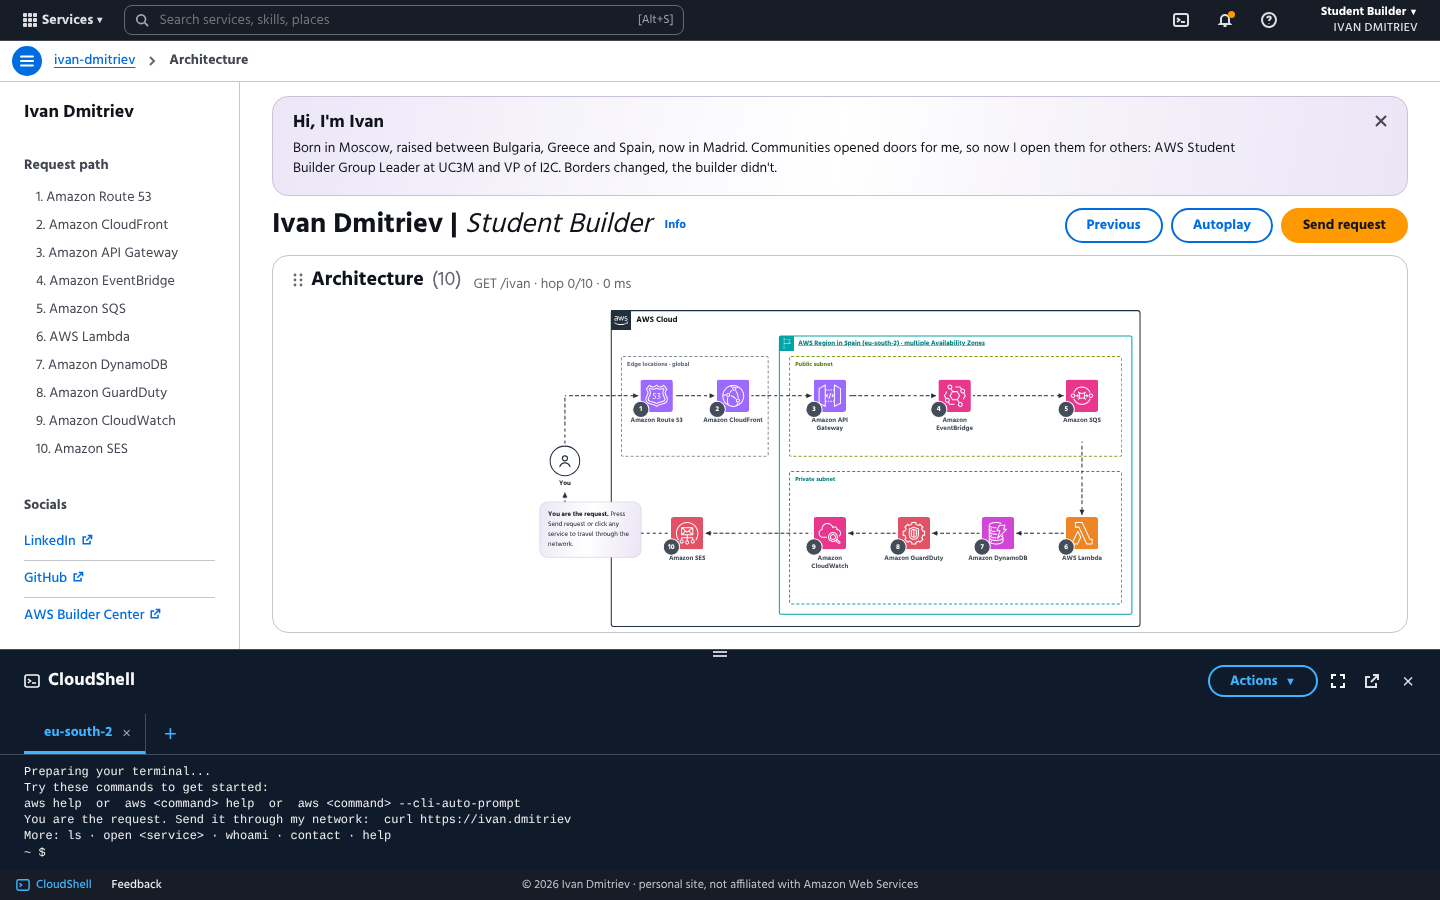
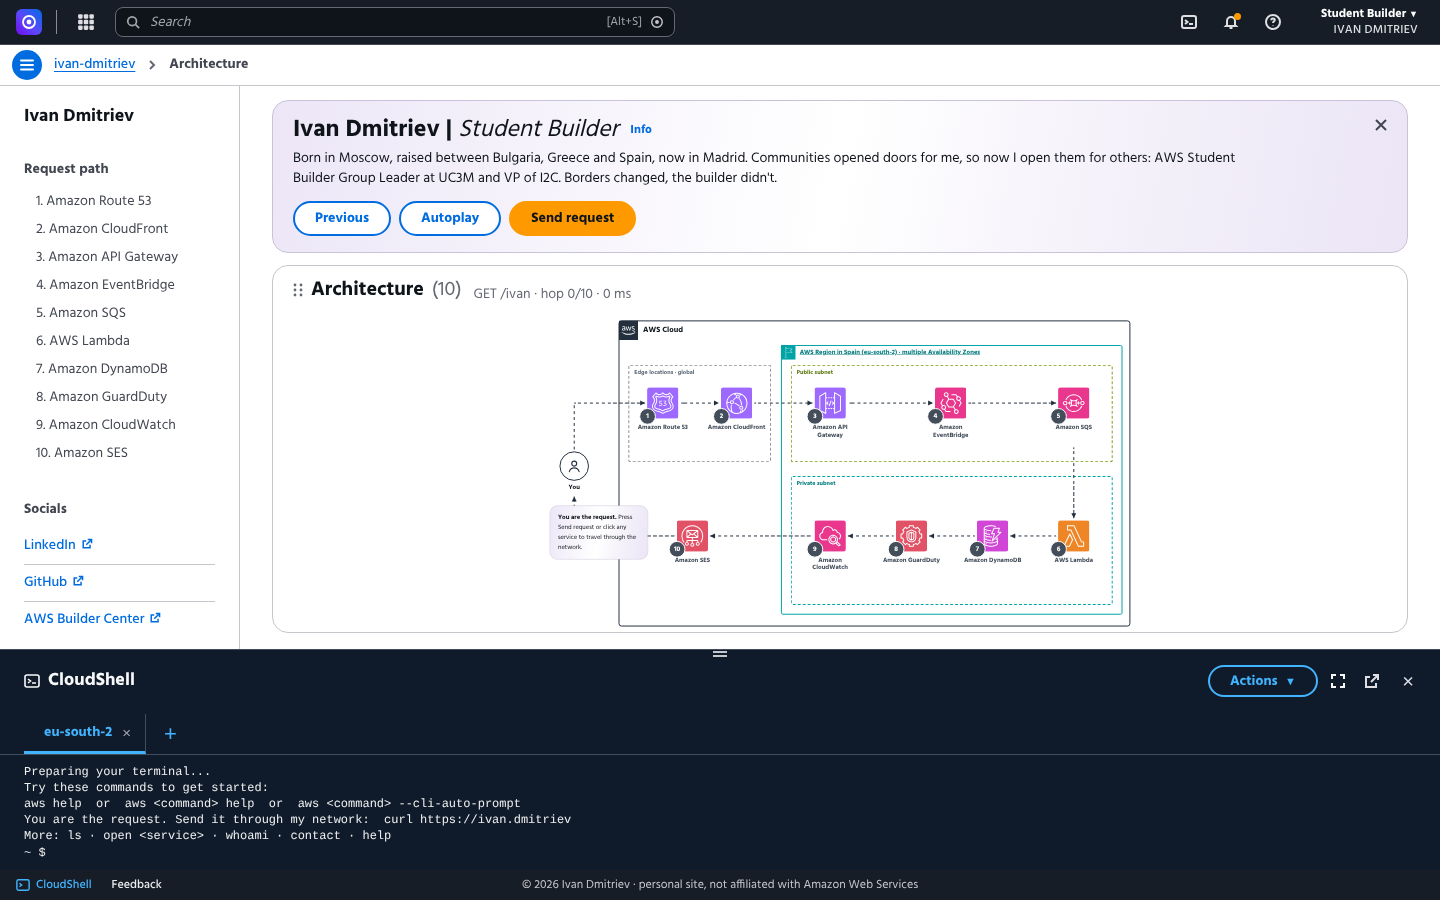
Console-style top-left (mark, divider, services grid, search) and title + actions inside the notice
Claude-Session: https://claude.ai/code/session_01SpbYpNfqmSStHB3S69pLeV

Changed region(s): [[0.1875, 0.0933, 1.0, 0.6844], [0.0, 0.0, 1.0, 0.5289], [0.0, 0.56, 0.125, 0.7156]]

diff --git a/site/app.js b/site/app.js
@@ -4,12 +4,13 @@ const view = (v) => html`
 <div class="app-root" style="height: 100vh; min-height: 560px; overflow: hidden; display: flex; flex-direction: column; background: #ffffff; color: #0f141a; font-family: 'Hind', 'Open Sans', 'Helvetica Neue', Roboto, Arial, sans-serif; font-size: 14px; line-height: 20px">
 
   
-  <header style="flex: none; position: relative; z-index: 60; height: 40px; background: #161d26; display: flex; align-items: center; gap: 16px; padding: 0 16px; border-bottom: 1px solid #424650">
+  <header style="flex: none; position: relative; z-index: 60; height: 44px; background: #161d26; display: flex; align-items: center; gap: 14px; padding: 0 16px; border-bottom: 1px solid #424650">
+    <a href="#" onClick=${v.restart} aria-label="Home" title="Home" class="mark" style="flex: none; width: 26px; height: 26px; border-radius: 6px; background: linear-gradient(225deg, #026be1 0%, #5d47ff 55%, #710bea 100%); display: flex; align-items: center; justify-content: center"><svg width="16" height="16" viewBox="0 0 16 16" aria-hidden="true"><circle cx="8" cy="8" r="6" fill="none" stroke="#ffffff" stroke-width="1.8"></circle><circle cx="8" cy="8" r="2.4" fill="#ffffff"></circle></svg></a>
+    <span aria-hidden="true" style="width: 1px; height: 24px; background: #8c8c94; flex: none"></span>
     ${v.anyMenu ? html`<div onClick=${v.closeMenus} style="position: fixed; inset: 0; z-index: 45"></div>` : null}
     <div style="position: relative; z-index: 56">
-    <button class="tnav" onClick=${v.menuServices} aria-expanded=${v.mServices} style="background: none; border: 0; cursor: pointer; display: flex; align-items: center; gap: 4px; padding: 4px 6px; border-radius: 4px; color: #dedee3; font: 700 14px 'Hind', 'Open Sans', sans-serif">
-      <svg width="16" height="16" viewBox="0 0 16 16" fill="#dedee3" aria-hidden="true"><rect x="1" y="1" width="4" height="4" rx="1"></rect><rect x="6" y="1" width="4" height="4" rx="1"></rect><rect x="11" y="1" width="4" height="4" rx="1"></rect><rect x="1" y="6" width="4" height="4" rx="1"></rect><rect x="6" y="6" width="4" height="4" rx="1"></rect><rect x="11" y="6" width="4" height="4" rx="1"></rect><rect x="1" y="11" width="4" height="4" rx="1"></rect><rect x="6" y="11" width="4" height="4" rx="1"></rect><rect x="11" y="11" width="4" height="4" rx="1"></rect></svg>
-      Services <span style="font-size: 10px">▾</span>
+    <button class="tnav" onClick=${v.menuServices} aria-expanded=${v.mServices} aria-label="All services" title="All services" style="background: none; border: 0; cursor: pointer; display: flex; align-items: center; gap: 4px; padding: 6px; border-radius: 4px; color: #dedee3; font: 700 14px 'Hind', 'Open Sans', sans-serif">
+      <svg width="18" height="18" viewBox="0 0 16 16" fill="#dedee3" aria-hidden="true"><rect x="1" y="1" width="4" height="4" rx="1"></rect><rect x="6" y="1" width="4" height="4" rx="1"></rect><rect x="11" y="1" width="4" height="4" rx="1"></rect><rect x="1" y="6" width="4" height="4" rx="1"></rect><rect x="6" y="6" width="4" height="4" rx="1"></rect><rect x="11" y="6" width="4" height="4" rx="1"></rect><rect x="1" y="11" width="4" height="4" rx="1"></rect><rect x="6" y="11" width="4" height="4" rx="1"></rect><rect x="11" y="11" width="4" height="4" rx="1"></rect></svg>
     </button>
     ${v.mServices ? html`
       <div class="svc-menu" role="menu" style="position: absolute; top: 36px; z-index: 55; background: #ffffff; border-radius: 8px; box-shadow: 0px 1px 1px 1px #e9ebed, 0px 6px 36px #0007161a; padding: 6px 0; left: 0; width: 560px; padding: 12px 0; display: grid; grid-template-columns: 1fr 1fr">
@@ -27,10 +28,10 @@ const view = (v) => html`
       </div>
     ` : null}
     </div>
-    <div style="position: relative; flex: 0 1 560px; min-width: 0"><label class="search" style="display: flex; align-items: center; gap: 8px; height: 30px; padding: 0 10px; border: 1px solid #656871; border-radius: 8px; background: #161d26; color: #a4a4ad; box-sizing: border-box">
+    <div style="position: relative; flex: 0 1 560px; min-width: 0"><label class="search" style="display: flex; align-items: center; gap: 8px; height: 30px; padding: 0 10px; border: 1px solid #656871; border-radius: 8px; background: #0f141a; color: #a4a4ad; box-sizing: border-box">
       <svg width="14" height="14" viewBox="0 0 16 16" fill="none" stroke="#a4a4ad" stroke-width="2" aria-hidden="true"><circle cx="7" cy="7" r="5"></circle><path d="M11 11 L15 15"></path></svg>
-      <input type="search" placeholder="Search services, skills, places" aria-label="Search" value=${v.q} onInput=${v.onSearch} onKeyDown=${v.onSearchKey} style="flex: 1; min-width: 0; background: transparent; border: 0; outline: none; color: #f9f9fa; font: 400 14px 'Hind', 'Open Sans', sans-serif" />
-      <span style="font-size: 12px; color: #a4a4ad">[Alt+S]</span>
+      <input type="search" placeholder="Search" aria-label="Search" value=${v.q} onInput=${v.onSearch} onKeyDown=${v.onSearchKey} style="flex: 1; min-width: 0; background: transparent; border: 0; outline: none; color: #f9f9fa; font: 400 14px 'Hind', 'Open Sans', sans-serif" />
+      <span style="font-size: 12px; color: #a4a4ad; white-space: nowrap">[Alt+S]</span><svg width="14" height="14" viewBox="0 0 16 16" aria-hidden="true"><circle cx="8" cy="8" r="6" fill="none" stroke="#c6c6cd" stroke-width="1.6"></circle><circle cx="8" cy="8" r="2.2" fill="#c6c6cd"></circle></svg>
     </label>
     ${v.hasResults ? html`
       <div role="listbox" style="position: absolute; left: 0; right: 0; top: 34px; z-index: 50; background: #ffffff; border-radius: 8px; box-shadow: 0px 1px 1px 1px #e9ebed, 0px 6px 36px #0007161a; padding: 6px 0; overflow: hidden">
@@ -125,14 +126,7 @@ const view = (v) => html`
       
       ${v.bannerOpen ? html`
         <div class="banner" style="flex: none; position: relative; border: 1px solid #c8c3d8; border-radius: 16px; padding: 14px 52px 16px 20px">
-          <div style="font-size: 18px; line-height: 24px; font-weight: 700; color: #0f141a">Hi, I'm Ivan</div>
-          <div style="margin-top: 4px; color: #0f141a; max-width: 980px">Born in Moscow, raised between Bulgaria, Greece and Spain, now in Madrid. Communities opened doors for me, so now I open them for others: AWS Student Builder Group Leader at UC3M and VP of I2C. Borders changed, the builder didn't.</div>
-          <button onClick=${v.closeBanner} aria-label="Dismiss" style="position: absolute; right: 14px; top: 12px; background: none; border: 0; cursor: pointer; padding: 4px; display: flex"><svg width="16" height="16" viewBox="0 0 16 16" fill="none" stroke="#424650" stroke-width="2" aria-hidden="true"><path d="M3 3 L13 13 M13 3 L3 13"></path></svg></button>
-        </div>
-      ` : null}
-      <div style="display: flex; flex-wrap: wrap; align-items: center; justify-content: space-between; gap: 10px 24px">
-        <div style="flex: 1 1 520px; max-width: 900px">
-          <h1 style="margin: 0; font-size: 28px; line-height: 34px; font-weight: 700; position: relative">Ivan Dmitriev <span style="font-weight: 700">|</span> <i style="font-weight: 400">Student Builder</i> <a href="#" onClick=${v.menuInfo} style="font-size: 12px; font-weight: 700; margin-left: 6px; vertical-align: middle">Info</a>
+          <h1 style="margin: 0; font-size: 24px; line-height: 30px; font-weight: 700; position: relative">Ivan Dmitriev <span style="font-weight: 700">|</span> <i style="font-weight: 400">Student Builder</i> <a href="#" onClick=${v.menuInfo} style="font-size: 12px; font-weight: 700; margin-left: 6px; vertical-align: middle">Info</a>
             ${v.mInfo ? html`
               <div class="info-pop" role="dialog" style="position: absolute; top: 34px; z-index: 100; background: #ffffff; border-radius: 8px; box-shadow: 0px 1px 1px 1px #e9ebed, 0px 6px 36px #0007161a; padding: 14px 16px; left: 0; width: 420px; font-size: 14px; line-height: 20px; font-weight: 400; color: #0f141a">
                 <strong style="display: block; font-size: 16px; margin-bottom: 6px">About this page</strong>
@@ -141,14 +135,15 @@ const view = (v) => html`
                 <p style="margin: 0">Press <b>Send request</b>, click any service, use the search bar, or type <code>curl https://ivan.dmitriev</code> in CloudShell.</p>
               </div>
             ` : null}</h1>
+          <div style="margin-top: 4px; color: #0f141a; max-width: 980px">Born in Moscow, raised between Bulgaria, Greece and Spain, now in Madrid. Communities opened doors for me, so now I open them for others: AWS Student Builder Group Leader at UC3M and VP of I2C. Borders changed, the builder didn't.</div>
+          <div style="margin-top: 12px"><div style="display: flex; flex-wrap: wrap; gap: 8px">
+          <button class="btnN" onClick=${v.prev} style="min-height: 30px; padding: 4px 20px; border-radius: 20px; border: 2px solid #006ce0; background: #ffffff; color: #006ce0; font: 700 14px 'Hind', 'Open Sans', sans-serif; cursor: pointer">Previous</button>
+          <button class="btnN" onClick=${v.togglePlay} style="min-height: 30px; padding: 4px 20px; border-radius: 20px; border: 2px solid #006ce0; background: #ffffff; color: #006ce0; font: 700 14px 'Hind', 'Open Sans', sans-serif; cursor: pointer">${v.playLabel}</button>
+          <button class="btnP" onClick=${v.primary} style="min-height: 30px; padding: 4px 20px; border-radius: 20px; border: 2px solid #FF9900; background: #FF9900; color: #0f141a; font: 700 14px 'Hind', 'Open Sans', sans-serif; cursor: pointer">${v.primaryLabel}</button>
+        </div></div>
+          <button onClick=${v.closeBanner} aria-label="Dismiss" style="position: absolute; right: 14px; top: 12px; background: none; border: 0; cursor: pointer; padding: 4px; display: flex"><svg width="16" height="16" viewBox="0 0 16 16" fill="none" stroke="#424650" stroke-width="2" aria-hidden="true"><path d="M3 3 L13 13 M13 3 L3 13"></path></svg></button>
         </div>
-        <div style="display: flex; flex-wrap: wrap; gap: 8px">
-          <button class="btnN" onClick=${v.prev} style="min-height: 32px; padding: 4px 20px; border-radius: 20px; border: 2px solid #006ce0; background: #ffffff; color: #006ce0; font: 700 14px 'Hind', 'Open Sans', sans-serif; cursor: pointer">Previous</button>
-          <button class="btnN" onClick=${v.togglePlay} style="min-height: 32px; padding: 4px 20px; border-radius: 20px; border: 2px solid #006ce0; background: #ffffff; color: #006ce0; font: 700 14px 'Hind', 'Open Sans', sans-serif; cursor: pointer">${v.playLabel}</button>
-          <button class="btnP" onClick=${v.primary} style="min-height: 32px; padding: 4px 20px; border-radius: 20px; border: 2px solid #FF9900; background: #FF9900; color: #0f141a; font: 700 14px 'Hind', 'Open Sans', sans-serif; cursor: pointer">${v.primaryLabel}</button>
-        </div>
-      </div>
-
+      ` : null}
       
       <section style="flex: 1 1 auto; min-height: 0; display: flex; flex-direction: column; background: #ffffff; border-radius: 16px; border: 1px solid #c6c6cd">
         <div style="flex: none; padding: 12px 20px 4px; display: flex; flex-wrap: wrap; align-items: baseline; gap: 4px 12px">

diff --git a/site/index.html b/site/index.html
@@ -18,6 +18,7 @@ a:hover{text-decoration:underline;text-underline-offset:3px;color:#002b66}
 .extlist a:last-child{border-bottom:0}
 .extlist a:hover{color:#002b66 !important}
 .btnN:hover{background:#f0fbff !important;color:#002b66 !important;border-color:#002b66 !important}
+input[type=search]::placeholder{font-style:italic;color:#a4a4ad}
 .search:focus-within{border-color:#42b4ff !important;box-shadow:0 0 0 1px #42b4ff}
 .qline{height:2px;background:linear-gradient(90deg,#9332ff 0%,#4f83ff 45%,#3fb4ff 70%,#887dff 100%)}
 .banner{background:linear-gradient(100deg,#ece6f7 0%,#f8f6fc 30%,#ffffff 50%,#f5f2fa 72%,#ebe5f6 100%)}
@@ -48,7 +49,7 @@ a:hover{text-decoration:underline;text-underline-offset:3px;color:#002b66}
 .stage .win{display:none !important}
 .win-m{position:fixed !important;left:8px !important;right:8px !important;bottom:8px !important;top:auto !important;width:auto !important;max-height:72vh !important;z-index:50 !important}
 .hide-m{display:none !important}
-header [role=menu]{position:fixed !important;left:8px !important;right:8px !important;top:44px !important;width:auto !important;z-index:95 !important;max-height:75vh;overflow-y:auto}
+header [role=menu]{position:fixed !important;left:8px !important;right:8px !important;top:48px !important;width:auto !important;z-index:95 !important;max-height:75vh;overflow-y:auto}
 .svc-menu{grid-template-columns:1fr !important}
 .info-pop{width:auto !important;max-width:calc(100vw - 32px)}
 .shell:not([style*="fixed"]){height:320px !important}
